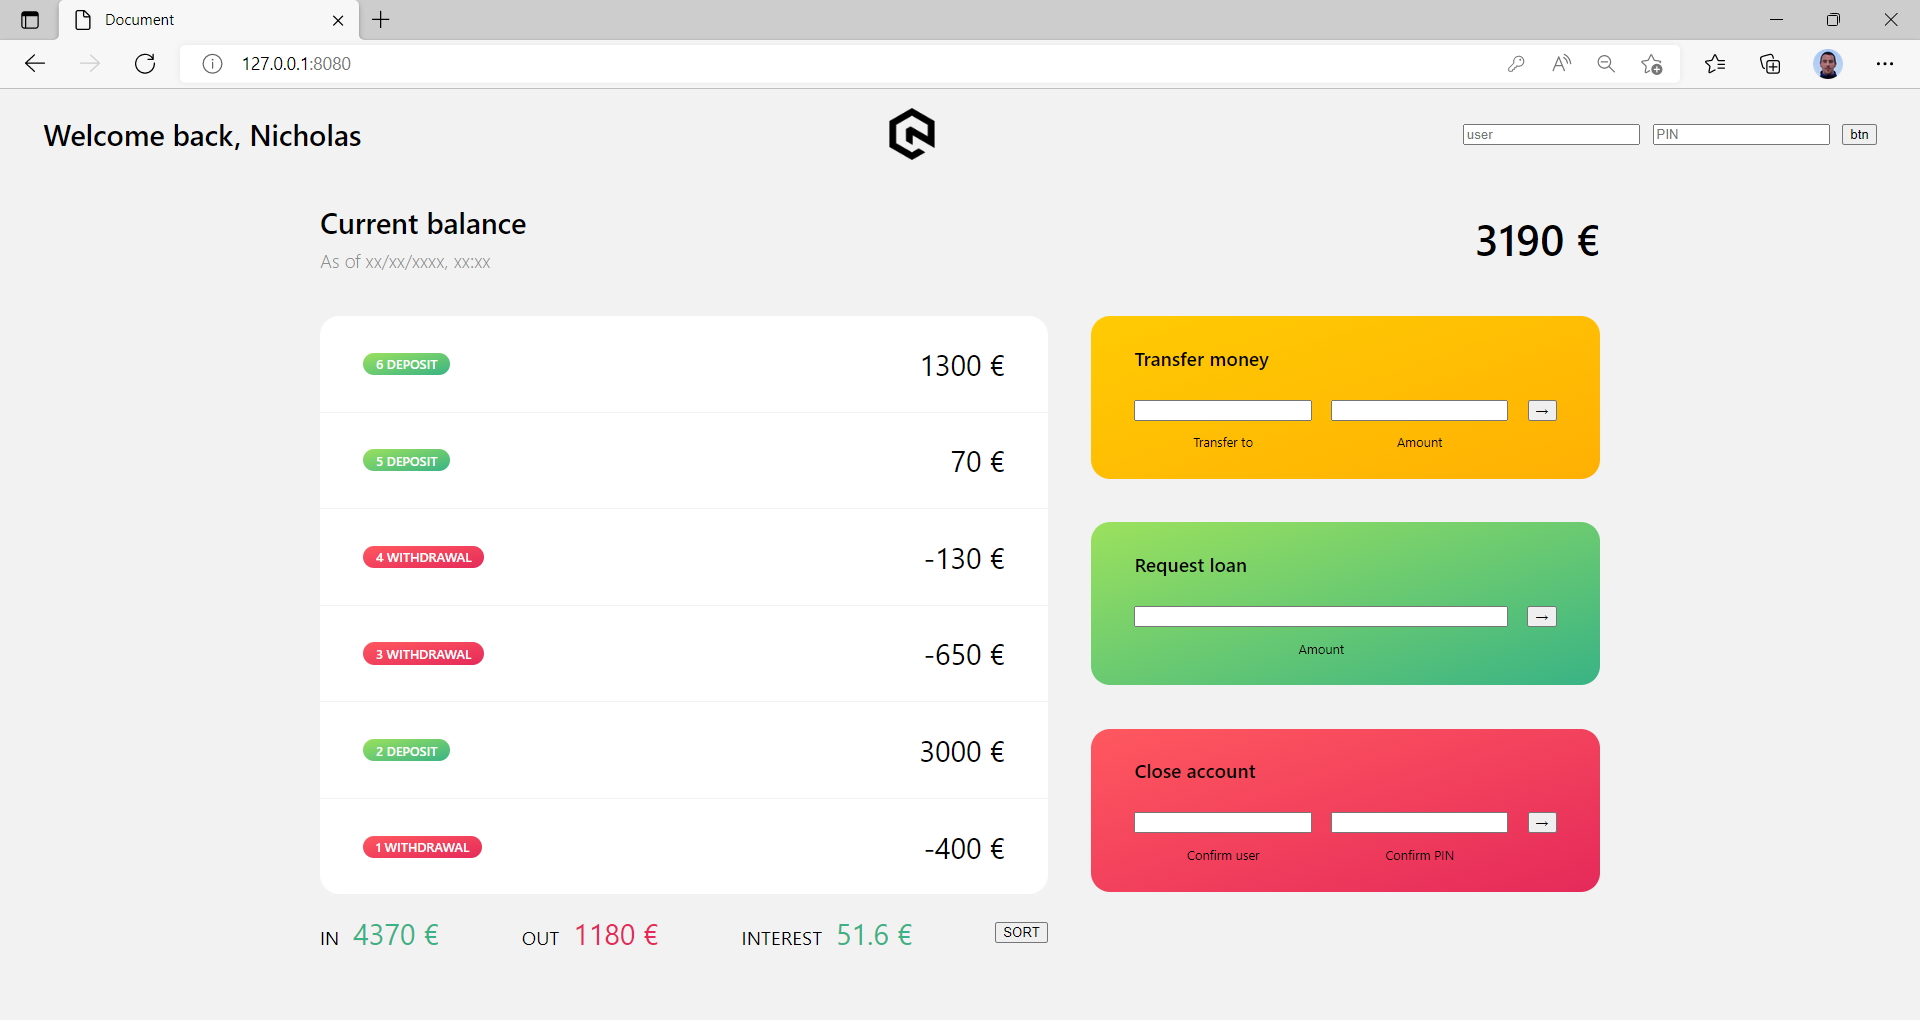
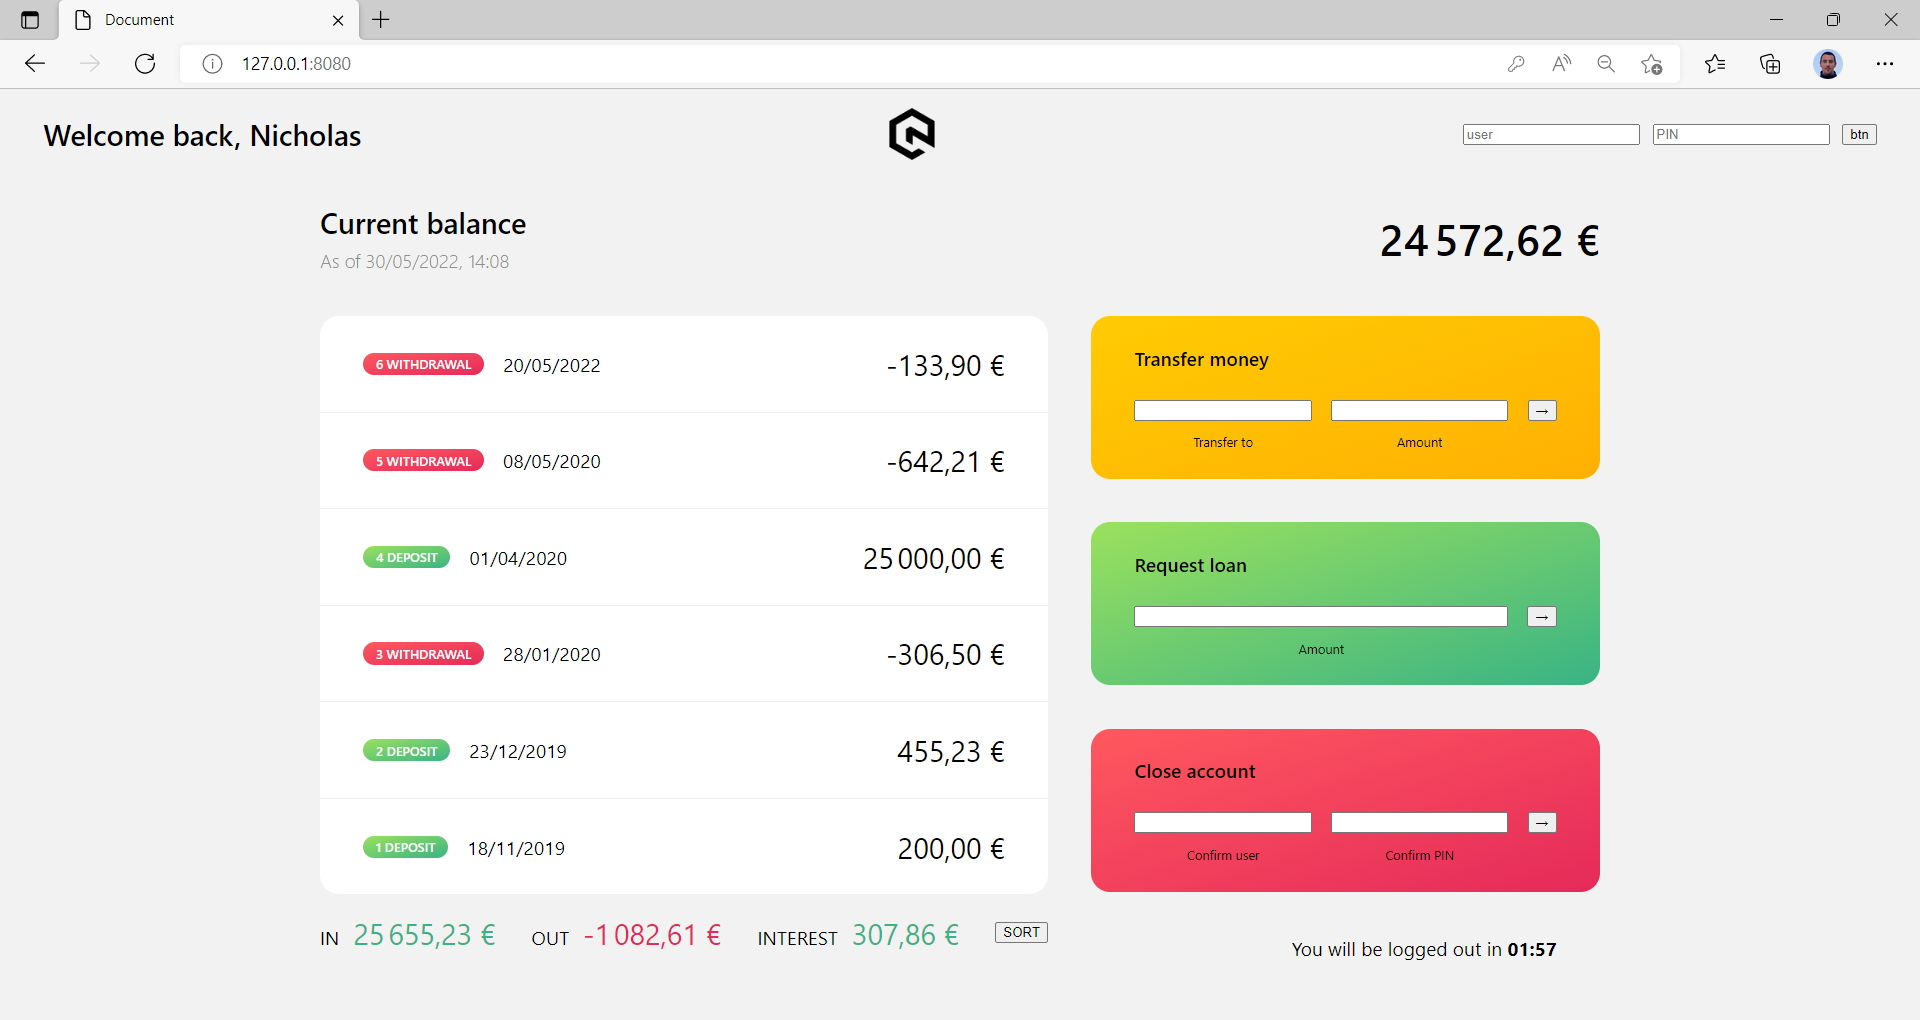
update readme

diff --git a/script.js b/script.js
@@ -401,22 +401,3 @@ const bigDeposits = accounts
   .flatMap((accounts) => accounts.movements)
   .filter((mov) => mov >= 1000).length;
 // console.log(bigDeposits);
-
-// const bday = new Date(' Feb 24 1986');
-// const age = Date.now() - bday;
-// console.log(age.toISOString());
-
-// const now = Date.now();
-// const bday = new Date('24 Feb 1986').getTime();
-
-// console.log(new Date());
-
-// console.log(now);
-// console.log(bday);
-
-// const daysPassed = function (now, date) {
-//   return (now - date) / (1000 * 60 * 60 * 24 * 365);
-// };
-
-// const result = daysPassed(now, bday);
-// console.log(`Days passed since : ${result}`);

diff --git a/README.md b/README.md
@@ -4,7 +4,7 @@ JavaScript Application - Fictional bank app
 
 ## Project
 
-Application allowing login, visualization of bank account movements, sort movements, transfer money, request a loan and close the account.
+Application allowing login, visualization of bank account movements, sort movements, transfer money to another account, request a loan, close the account and logout user using set & clearInterval.
 
 ## Layout
 
@@ -16,8 +16,6 @@ Algorithmically adaptable interface.
 
 **Account login details**:  
 **username**: ng **//** pin: 1  
-**username**: jd **//** pin: 2222  
-**username**: stw **//** pin: 3333  
-**username**: sj **//** pin: 4444
+**username**: jd **//** pin: 2222
 
 ## _Dollar dollar bill, y'all_
